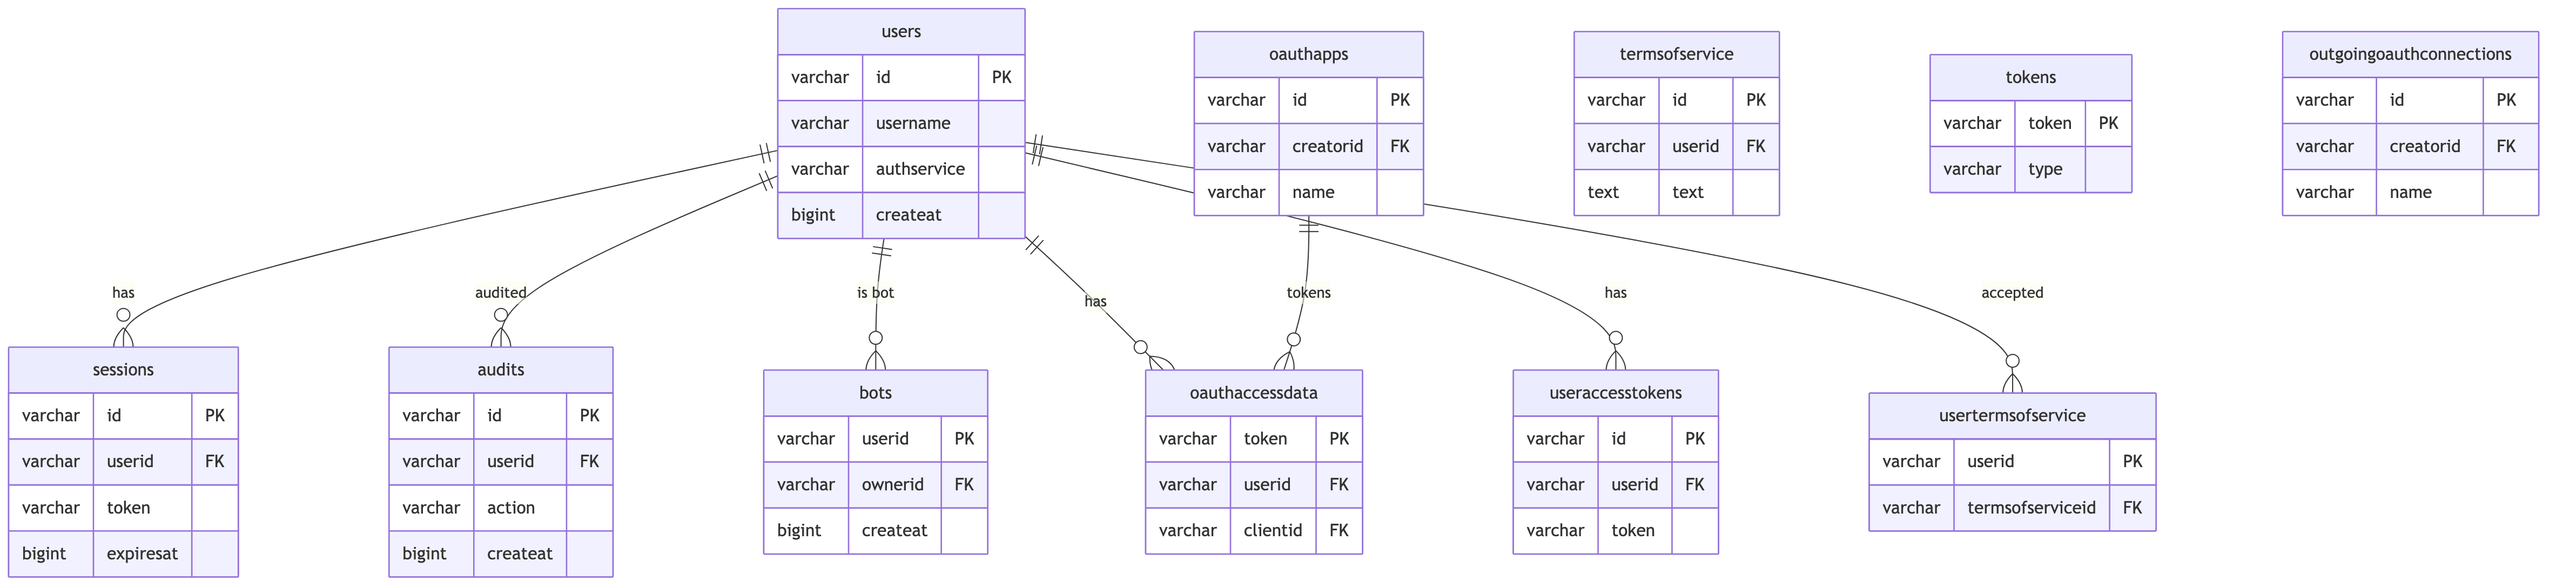
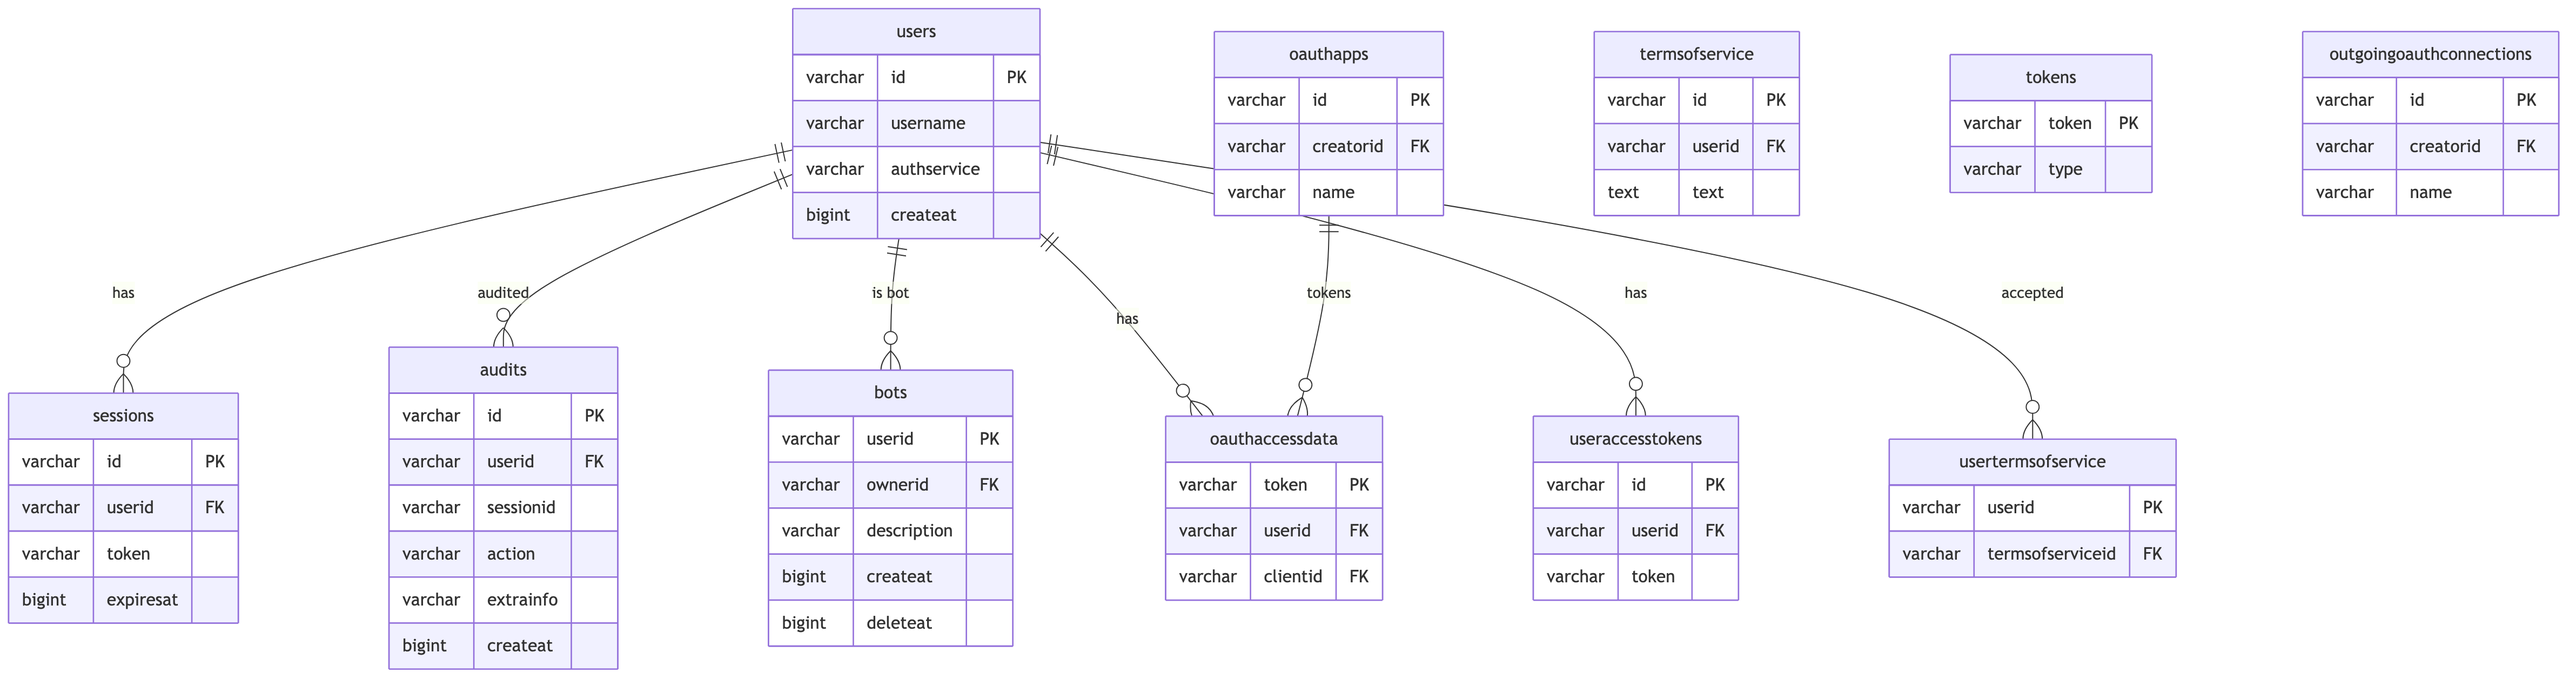
Add some field name to diagram png

diff --git a/mattermost/sql/diagrams/README.md b/mattermost/sql/diagrams/README.md
@@ -2,6 +2,8 @@
 
 Split ER diagrams from `../final.sql` for readable PNG/SVG export. Each file focuses on one area.
 
+**Diagram convention:** Each entity shows a **subset** of columns — primary keys (PK), foreign keys (FK), and other important fields. The **authoritative schema is `../final.sql`**; diagrams omit some columns (e.g. long text, jsonb, or rarely-used fields) to stay readable. If a column exists in `final.sql` but not in a diagram, it is intentional omission, not an error. Critical fields like `posts.fileids` are included.
+
 | File | Description |
 |------|-------------|
 | **01-core-users-teams-channels.mmd** | Users, teams, schemes, channels, channel/team members, channel member history, public channels |
